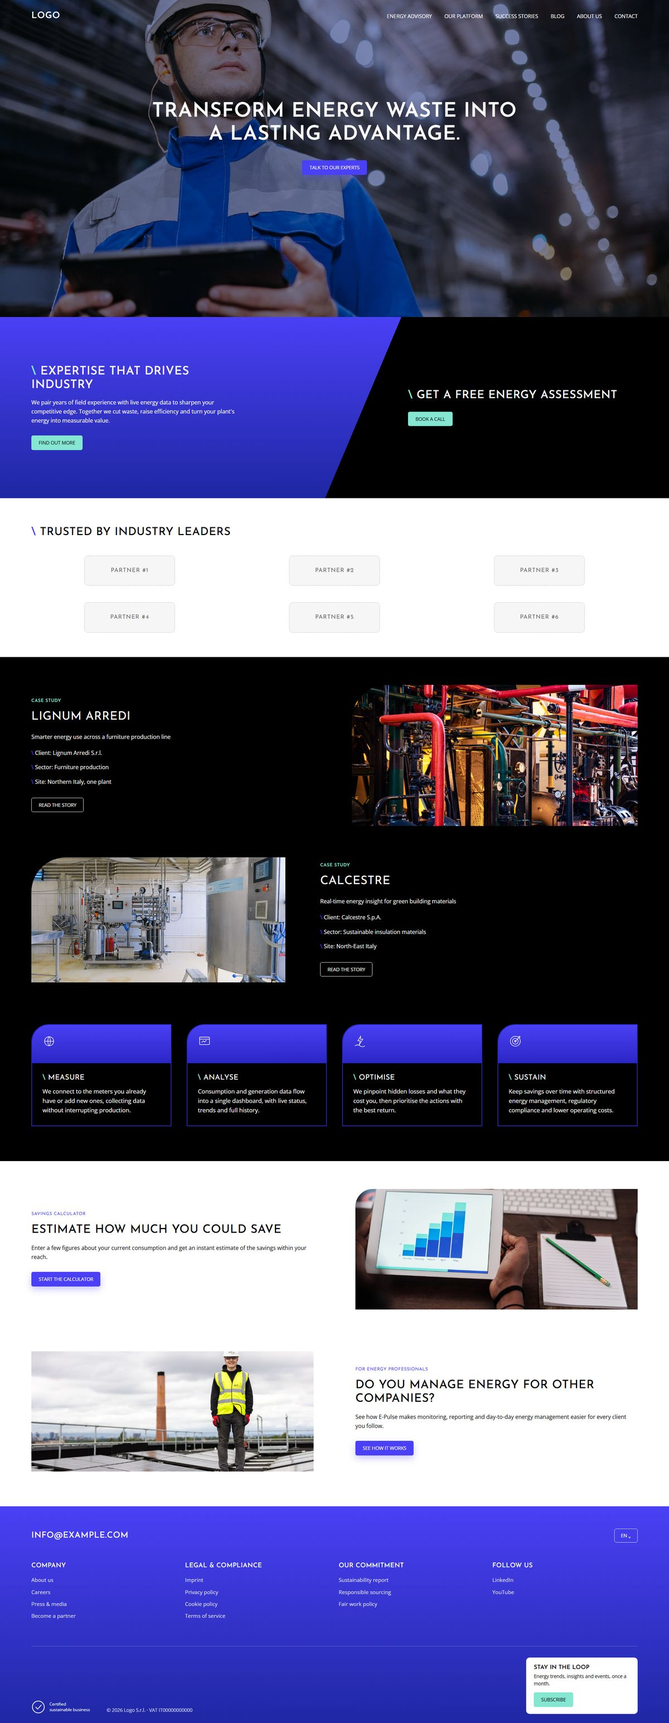
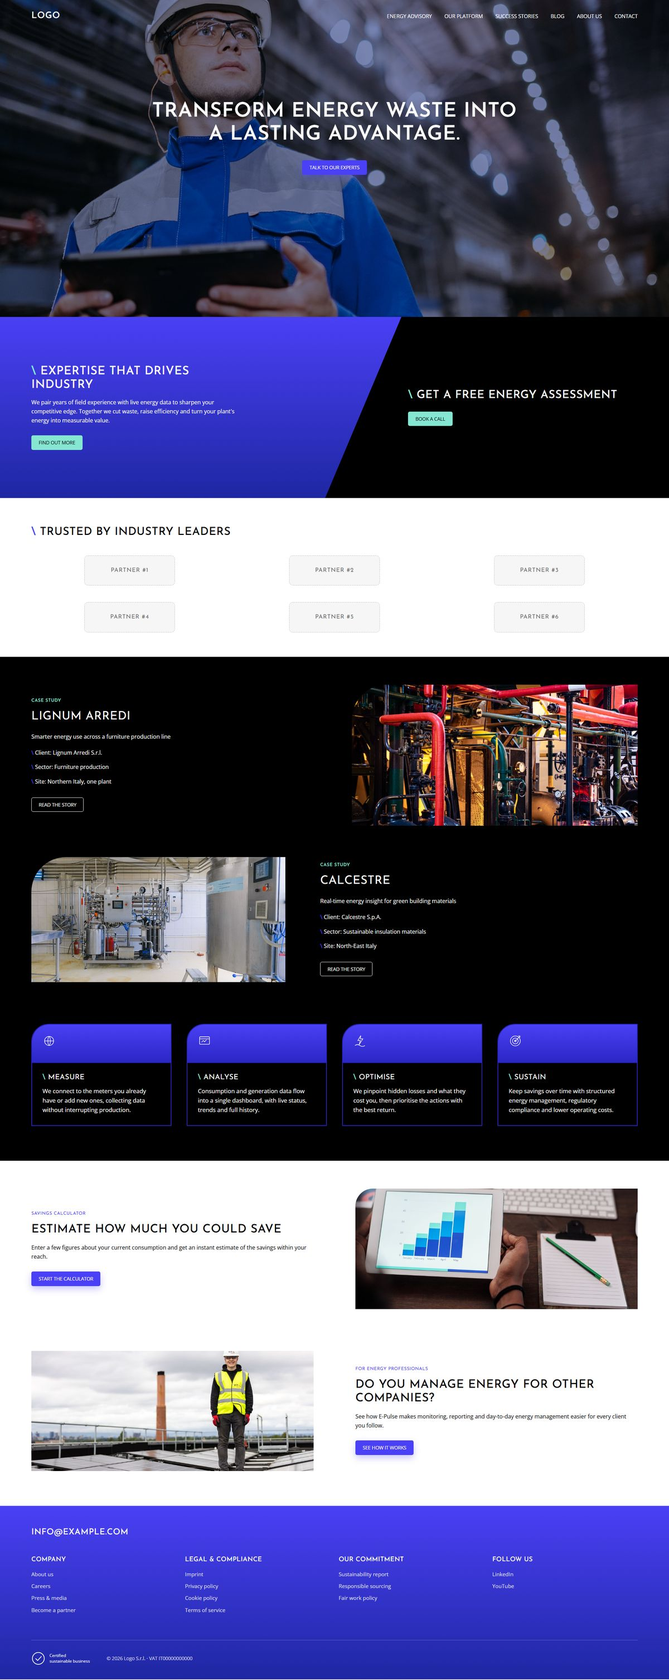
Rewrite wellness copy; trim energy footer

diff --git a/energia/assets/css/main.css b/energia/assets/css/main.css
@@ -1,1 +1,1 @@
-*,*::before,*::after{box-sizing:border-box}html{scroll-behavior:smooth}body{margin:0;background:#fff;color:#000;font:400 16px/1.6 "Open Sans",system-ui,sans-serif;-webkit-font-smoothing:antialiased}img{display:block;max-width:100%;height:auto}a{color:inherit}h1,h2,h3{margin:0;font-family:"Josefin Sans",sans-serif;font-weight:500;text-transform:uppercase;letter-spacing:.02em;line-height:1.15}.btn{display:inline-block;padding:13px 20px;border:1px solid rgba(0,0,0,0);border-radius:5px;font:400 .85rem/1 "Open Sans",system-ui,sans-serif;text-transform:uppercase;text-decoration:none;transition:filter .2s,background .2s,color .2s}.btn:hover{filter:brightness(1.1)}.btn--violet{background:#4a40f5;color:#fff;box-shadow:0 8px 20px rgba(74,64,245,.3)}.btn--teal{background:#85e6d1;color:#000}.btn--outline{border-color:#fff;color:#fff}.btn--outline:hover{background:#fff;color:#000}.slash::before{content:"\\ ";color:#85e6d1;font-weight:600}.slash--violet::before{color:#4a40f5}.kicker{display:block;margin-bottom:20px;font:600 .8rem/1 "Josefin Sans",sans-serif;letter-spacing:.04em;text-transform:uppercase;color:#85e6d1}.kicker--violet{color:#4a40f5;font-weight:400}.header{position:absolute;inset:0 0 auto;z-index:10;color:#fff}.header__inner{display:flex;align-items:center;justify-content:space-between;padding:28px clamp(20px,4.7vw,90px)}.header__toggle{display:flex;flex-direction:column;gap:5px;padding:10px;border:0;background:none;cursor:pointer}.header__toggle span{width:24px;height:2px;background:#fff}@media(min-width: 1100px){.header__toggle{display:none}}.header__nav{display:none;position:absolute;top:90px;left:0;right:0;flex-direction:column;padding:12px clamp(20px,4.7vw,90px) 20px;background:rgba(0,0,0,.92)}.header__nav.is-open{display:flex}@media(min-width: 1100px){.header__nav{display:flex;position:static;flex-direction:row;gap:36px;padding:0;background:none}}.header__nav a{padding:8px 0;font:400 .92rem "Open Sans",system-ui,sans-serif;text-transform:uppercase;text-decoration:none}.header__nav a:hover{color:#85e6d1}.logo{font:600 1.6rem/1 "Josefin Sans",sans-serif;letter-spacing:.04em;text-transform:uppercase;text-decoration:none}.hero{display:flex;flex-direction:column;align-items:center;justify-content:center;gap:40px;min-height:600px;padding:140px 20px 80px;text-align:center;color:#fff;background:linear-gradient(rgba(10, 30, 110, 0.55), rgba(10, 30, 110, 0.55)),url("../img/hero.jpg") center 30%/cover;background-blend-mode:multiply}@media(min-width: 1100px){.hero{min-height:910px;padding-bottom:260px}}.hero h1{font-size:clamp(2rem,4.2vw,3.6rem);font-weight:600;text-shadow:0 2px 20px rgba(0,0,0,.3)}.insight{display:grid;background:#000}@media(min-width: 1100px){.insight{grid-template-columns:1fr 1fr;min-height:520px}}.insight__panel{display:flex;flex-direction:column;justify-content:center;align-items:flex-start;padding:64px clamp(20px,4.7vw,90px);background:linear-gradient(180deg, #4a40f5, #1e27a2);color:#fff}@media(min-width: 1100px){.insight__panel{grid-column:1/3;grid-row:1;width:60%;padding-right:22%;clip-path:polygon(0 0, 100% 0, 81% 100%, 0 100%)}}.insight__panel h2{margin-bottom:18px;font-size:clamp(1.5rem,2.2vw,2.1rem)}.insight__panel p{max-width:610px;margin:0 0 30px;font-size:1rem}.insight__cta{display:flex;flex-direction:column;justify-content:center;align-items:flex-start;gap:28px;padding:56px clamp(20px,4.7vw,90px)}@media(min-width: 1100px){.insight__cta{grid-column:2;grid-row:1;padding:0 clamp(20px,4.7vw,90px) 0 22%}}.insight__cta{color:#fff}.insight__cta h2{font-size:clamp(1.4rem,2vw,2rem)}.clients{padding:80px clamp(20px,4.7vw,90px) 70px}.clients h2{margin-bottom:48px;font-size:clamp(1.4rem,2vw,2rem)}.clients__grid{display:grid;grid-template-columns:repeat(2, 1fr);gap:48px 24px;margin:0;padding:0;list-style:none}@media(min-width: 768px){.clients__grid{grid-template-columns:repeat(3, 1fr)}}.partner{display:grid;place-items:center;width:100%;max-width:260px;aspect-ratio:3/1;margin:0 auto;border:1.5px dashed #bdbdbd;border-radius:10px;background:#f6f6f6;font:400 1.05rem/1 "Josefin Sans",sans-serif;letter-spacing:.06em;text-transform:uppercase;color:#6b6b6b}.cases{display:grid;gap:90px;padding:80px clamp(20px,4.7vw,90px) 40px;background:#000;color:#fff}.case{display:grid;gap:32px;align-items:center}@media(min-width: 1100px){.case{grid-template-columns:1fr 1fr;gap:100px}}.case h3{margin-bottom:26px;font-size:2.1rem;font-weight:400}.case p{margin:0 0 20px}.case ul{margin:0 0 32px;padding:0;list-style:none}.case li{margin-bottom:16px}.case li::before{content:"\\ ";color:#4a40f5;font-weight:700}.case__img{width:100%;aspect-ratio:770/380;object-fit:cover;border-top-left-radius:100px}@media(min-width: 1100px){.case--reverse{grid-template-columns:.8fr 1fr}.case--reverse .case__text{order:2}}.case--reverse .kicker{margin-bottom:20px}@media(min-width: 1100px){.case--reverse .case__img{aspect-ratio:770/380}}.process{padding:80px clamp(20px,4.7vw,90px) 100px;background:#000;color:#fff}.process>h2{margin-bottom:18px;font-size:clamp(1.4rem,2vw,2rem)}.process>p{margin:0 0 30px}.process__grid{display:grid;gap:44px;margin-top:0}@media(min-width: 768px){.process__grid{grid-template-columns:repeat(2, 1fr)}}@media(min-width: 1100px){.process__grid{grid-template-columns:repeat(4, 1fr)}}.step{border:2px solid #2a26c4;border-top-left-radius:50px;overflow:hidden}.step__head{height:110px;padding:28px 30px;background:linear-gradient(180deg, #4a40f5, #2a26c4)}.step__head svg{width:38px;height:38px;fill:none;stroke:#fff;stroke-width:1.3}.step h3{margin:30px 30px 14px;font-size:1.3rem;font-weight:400}.step p{margin:0 30px 30px;font-size:1.05rem}.feature{display:grid;gap:36px;align-items:center;padding:80px clamp(20px,4.7vw,90px) 40px}@media(min-width: 1100px){.feature{grid-template-columns:1fr 1fr;gap:120px}}.feature h2{margin-bottom:20px;font-size:clamp(1.5rem,2.2vw,2.1rem)}.feature p{max-width:800px;margin:0 0 30px;font-size:1rem}.feature__img{width:100%;aspect-ratio:820/350;object-fit:cover;border-top-left-radius:50px}.feature--reverse{padding-bottom:100px}@media(min-width: 1100px){.feature--reverse .feature__text{order:2}}.feature--reverse .feature__img{border-radius:0}span.btn{pointer-events:none;cursor:default}.footer{padding:64px clamp(20px,4.7vw,90px) 40px;background:linear-gradient(180deg, #4a40f5, #1e27a2);color:#fff}.footer__top{display:flex;flex-wrap:wrap;align-items:center;justify-content:space-between;gap:20px;margin-bottom:56px}.footer__mail{font:500 clamp(1.1rem, 1.6vw, 1.5rem)/1 "Josefin Sans",sans-serif;text-transform:uppercase;letter-spacing:.03em}.footer__lang{padding:8px 18px;border:1px solid rgba(255,255,255,.8);border-radius:6px;font-size:.85rem}.footer__cols{display:grid;gap:40px 24px}@media(min-width: 768px){.footer__cols{grid-template-columns:repeat(2, 1fr)}}@media(min-width: 1100px){.footer__cols{grid-template-columns:repeat(4, 1fr)}}.footer__cols h2{margin-bottom:18px;font-size:1.15rem;font-weight:500}.footer__cols ul{margin:0;padding:0;list-style:none}.footer__cols li{margin-bottom:10px;font-size:.95rem;color:rgba(255,255,255,.85)}.footer__bottom{display:grid;gap:32px;align-items:end;margin-top:64px;padding-top:32px;border-top:1px solid rgba(255,255,255,.25)}@media(min-width: 1100px){.footer__bottom{grid-template-columns:auto 1fr auto;gap:48px}}.footer__bottom>p{margin:0;font-size:.85rem;color:rgba(255,255,255,.8)}.footer__badge{display:flex;align-items:center;gap:12px;font-size:.75rem;line-height:1.3}.footer__badge svg{width:40px;height:40px;fill:none;stroke:#fff;stroke-width:2}.footer__news{max-width:320px;padding:20px 22px;border-radius:10px;background:#fff;color:#000}.footer__news strong{display:block;font:600 1.05rem "Josefin Sans",sans-serif;text-transform:uppercase}.footer__news p{margin:6px 0 14px;font-size:.85rem}
+*,*::before,*::after{box-sizing:border-box}html{scroll-behavior:smooth}body{margin:0;background:#fff;color:#000;font:400 16px/1.6 "Open Sans",system-ui,sans-serif;-webkit-font-smoothing:antialiased}img{display:block;max-width:100%;height:auto}a{color:inherit}h1,h2,h3{margin:0;font-family:"Josefin Sans",sans-serif;font-weight:500;text-transform:uppercase;letter-spacing:.02em;line-height:1.15}.btn{display:inline-block;padding:13px 20px;border:1px solid rgba(0,0,0,0);border-radius:5px;font:400 .85rem/1 "Open Sans",system-ui,sans-serif;text-transform:uppercase;text-decoration:none;transition:filter .2s,background .2s,color .2s}.btn:hover{filter:brightness(1.1)}.btn--violet{background:#4a40f5;color:#fff;box-shadow:0 8px 20px rgba(74,64,245,.3)}.btn--teal{background:#85e6d1;color:#000}.btn--outline{border-color:#fff;color:#fff}.btn--outline:hover{background:#fff;color:#000}.slash::before{content:"\\ ";color:#85e6d1;font-weight:600}.slash--violet::before{color:#4a40f5}.kicker{display:block;margin-bottom:20px;font:600 .8rem/1 "Josefin Sans",sans-serif;letter-spacing:.04em;text-transform:uppercase;color:#85e6d1}.kicker--violet{color:#4a40f5;font-weight:400}.header{position:absolute;inset:0 0 auto;z-index:10;color:#fff}.header__inner{display:flex;align-items:center;justify-content:space-between;padding:28px clamp(20px,4.7vw,90px)}.header__toggle{display:flex;flex-direction:column;gap:5px;padding:10px;border:0;background:none;cursor:pointer}.header__toggle span{width:24px;height:2px;background:#fff}@media(min-width: 1100px){.header__toggle{display:none}}.header__nav{display:none;position:absolute;top:90px;left:0;right:0;flex-direction:column;padding:12px clamp(20px,4.7vw,90px) 20px;background:rgba(0,0,0,.92)}.header__nav.is-open{display:flex}@media(min-width: 1100px){.header__nav{display:flex;position:static;flex-direction:row;gap:36px;padding:0;background:none}}.header__nav a{padding:8px 0;font:400 .92rem "Open Sans",system-ui,sans-serif;text-transform:uppercase;text-decoration:none}.header__nav a:hover{color:#85e6d1}.logo{font:600 1.6rem/1 "Josefin Sans",sans-serif;letter-spacing:.04em;text-transform:uppercase;text-decoration:none}.hero{display:flex;flex-direction:column;align-items:center;justify-content:center;gap:40px;min-height:600px;padding:140px 20px 80px;text-align:center;color:#fff;background:linear-gradient(rgba(10, 30, 110, 0.55), rgba(10, 30, 110, 0.55)),url("../img/hero.jpg") center 30%/cover;background-blend-mode:multiply}@media(min-width: 1100px){.hero{min-height:910px;padding-bottom:260px}}.hero h1{font-size:clamp(2rem,4.2vw,3.6rem);font-weight:600;text-shadow:0 2px 20px rgba(0,0,0,.3)}.insight{display:grid;background:#000}@media(min-width: 1100px){.insight{grid-template-columns:1fr 1fr;min-height:520px}}.insight__panel{display:flex;flex-direction:column;justify-content:center;align-items:flex-start;padding:64px clamp(20px,4.7vw,90px);background:linear-gradient(180deg, #4a40f5, #1e27a2);color:#fff}@media(min-width: 1100px){.insight__panel{grid-column:1/3;grid-row:1;width:60%;padding-right:22%;clip-path:polygon(0 0, 100% 0, 81% 100%, 0 100%)}}.insight__panel h2{margin-bottom:18px;font-size:clamp(1.5rem,2.2vw,2.1rem)}.insight__panel p{max-width:610px;margin:0 0 30px;font-size:1rem}.insight__cta{display:flex;flex-direction:column;justify-content:center;align-items:flex-start;gap:28px;padding:56px clamp(20px,4.7vw,90px)}@media(min-width: 1100px){.insight__cta{grid-column:2;grid-row:1;padding:0 clamp(20px,4.7vw,90px) 0 22%}}.insight__cta{color:#fff}.insight__cta h2{font-size:clamp(1.4rem,2vw,2rem)}.clients{padding:80px clamp(20px,4.7vw,90px) 70px}.clients h2{margin-bottom:48px;font-size:clamp(1.4rem,2vw,2rem)}.clients__grid{display:grid;grid-template-columns:repeat(2, 1fr);gap:48px 24px;margin:0;padding:0;list-style:none}@media(min-width: 768px){.clients__grid{grid-template-columns:repeat(3, 1fr)}}.partner{display:grid;place-items:center;width:100%;max-width:260px;aspect-ratio:3/1;margin:0 auto;border:1.5px dashed #bdbdbd;border-radius:10px;background:#f6f6f6;font:400 1.05rem/1 "Josefin Sans",sans-serif;letter-spacing:.06em;text-transform:uppercase;color:#6b6b6b}.cases{display:grid;gap:90px;padding:80px clamp(20px,4.7vw,90px) 40px;background:#000;color:#fff}.case{display:grid;gap:32px;align-items:center}@media(min-width: 1100px){.case{grid-template-columns:1fr 1fr;gap:100px}}.case h3{margin-bottom:26px;font-size:2.1rem;font-weight:400}.case p{margin:0 0 20px}.case ul{margin:0 0 32px;padding:0;list-style:none}.case li{margin-bottom:16px}.case li::before{content:"\\ ";color:#4a40f5;font-weight:700}.case__img{width:100%;aspect-ratio:770/380;object-fit:cover;border-top-left-radius:100px}@media(min-width: 1100px){.case--reverse{grid-template-columns:.8fr 1fr}.case--reverse .case__text{order:2}}.case--reverse .kicker{margin-bottom:20px}@media(min-width: 1100px){.case--reverse .case__img{aspect-ratio:770/380}}.process{padding:80px clamp(20px,4.7vw,90px) 100px;background:#000;color:#fff}.process>h2{margin-bottom:18px;font-size:clamp(1.4rem,2vw,2rem)}.process>p{margin:0 0 30px}.process__grid{display:grid;gap:44px;margin-top:0}@media(min-width: 768px){.process__grid{grid-template-columns:repeat(2, 1fr)}}@media(min-width: 1100px){.process__grid{grid-template-columns:repeat(4, 1fr)}}.step{border:2px solid #2a26c4;border-top-left-radius:50px;overflow:hidden}.step__head{height:110px;padding:28px 30px;background:linear-gradient(180deg, #4a40f5, #2a26c4)}.step__head svg{width:38px;height:38px;fill:none;stroke:#fff;stroke-width:1.3}.step h3{margin:30px 30px 14px;font-size:1.3rem;font-weight:400}.step p{margin:0 30px 30px;font-size:1.05rem}.feature{display:grid;gap:36px;align-items:center;padding:80px clamp(20px,4.7vw,90px) 40px}@media(min-width: 1100px){.feature{grid-template-columns:1fr 1fr;gap:120px}}.feature h2{margin-bottom:20px;font-size:clamp(1.5rem,2.2vw,2.1rem)}.feature p{max-width:800px;margin:0 0 30px;font-size:1rem}.feature__img{width:100%;aspect-ratio:820/350;object-fit:cover;border-top-left-radius:50px}.feature--reverse{padding-bottom:100px}@media(min-width: 1100px){.feature--reverse .feature__text{order:2}}.feature--reverse .feature__img{border-radius:0}span.btn{pointer-events:none;cursor:default}.footer{padding:64px clamp(20px,4.7vw,90px) 40px;background:linear-gradient(180deg, #4a40f5, #1e27a2);color:#fff}.footer__top{display:flex;flex-wrap:wrap;align-items:center;justify-content:space-between;gap:20px;margin-bottom:56px}.footer__mail{font:500 clamp(1.1rem, 1.6vw, 1.5rem)/1 "Josefin Sans",sans-serif;text-transform:uppercase;letter-spacing:.03em}.footer__cols{display:grid;gap:40px 24px}@media(min-width: 768px){.footer__cols{grid-template-columns:repeat(2, 1fr)}}@media(min-width: 1100px){.footer__cols{grid-template-columns:repeat(4, 1fr)}}.footer__cols h2{margin-bottom:18px;font-size:1.15rem;font-weight:500}.footer__cols ul{margin:0;padding:0;list-style:none}.footer__cols li{margin-bottom:10px;font-size:.95rem;color:rgba(255,255,255,.85)}.footer__bottom{display:grid;gap:32px;align-items:center;margin-top:64px;padding-top:32px;border-top:1px solid rgba(255,255,255,.25)}@media(min-width: 1100px){.footer__bottom{grid-template-columns:auto 1fr;gap:48px}}.footer__bottom>p{margin:0;font-size:.85rem;color:rgba(255,255,255,.8)}.footer__badge{display:flex;align-items:center;gap:12px;font-size:.75rem;line-height:1.3}.footer__badge svg{width:40px;height:40px;fill:none;stroke:#fff;stroke-width:2}

diff --git a/benessere/index.html b/benessere/index.html
@@ -31,8 +31,8 @@
   <main>
     <section class="hero" id="top">
       <div class="container">
-        <h1>Vi diamo il benvenuto al Centro Alba</h1>
-        <p>Uno spazio nato per prendersi cura della persona e del suo benessere, in ogni fase della vita.</p>
+        <h1>Benvenuti al Centro Alba</h1>
+        <p>Un luogo accogliente dove ritrovare ascolto, equilibrio e fiducia, a ogni età.</p>
       </div>
     </section>
 
@@ -40,8 +40,8 @@
       <div class="container split">
         <div>
           <h2 class="title">Il centro Alba</h2>
-          <p>Alba è un centro multidisciplinare dedicato al supporto psicologico, educativo e alla promozione del benessere psicofisico. Con percorsi personalizzati per bambini, adolescenti e adulti, il nostro team di professionisti offre risposte concrete e integrate per affrontare le difficoltà e ritrovare equilibrio nella vita di tutti i giorni.</p>
-          <span class="btn">Scopri il centro</span>
+          <p>Al Centro Alba psicologi, educatori e operatori del benessere lavorano fianco a fianco. Accompagniamo bambini, ragazzi e adulti con percorsi costruiti sulla singola persona, per affrontare i momenti difficili e coltivare serenità nella vita quotidiana.</p>
+          <span class="btn">Conosci il centro</span>
         </div>
         <img class="split__img" src="assets/img/centro.jpg" alt="Bambini che dipingono con gli acquerelli" width="1200" height="800" loading="lazy">
       </div>
@@ -49,24 +49,24 @@
 
     <section class="section section--tight" id="servizi">
       <div class="container">
-        <h2 class="title">I nostri servizi</h2>
+        <h2 class="title">Le nostre aree</h2>
         <div class="services">
           <article class="service">
             <svg viewBox="0 0 48 48" aria-hidden="true"><path d="M30 42v-7h4a3 3 0 003-3v-5l4-2-4-6c0-8-6-14-14-14S9 11 9 19c0 5 2 9 6 12v11"/><path d="M23 29s-7-4-7-9a3.5 3.5 0 017-1 3.5 3.5 0 017 1c0 5-7 9-7 9z" fill="currentColor"/></svg>
             <h3>Spazio<br>Psicologico</h3>
-            <p>Uno spazio di ascolto sicuro e accogliente per affrontare difficoltà emotive e relazionali, promuovendo salute e benessere psicologico.</p>
+            <p>Colloqui individuali, di coppia e familiari per elaborare emozioni, superare momenti di crisi e prendersi cura della propria salute mentale.</p>
             <span class="btn">Approfondisci</span>
           </article>
           <article class="service">
             <svg viewBox="0 0 48 48" aria-hidden="true"><path d="M6 36c8 6 28 6 36 0"/><path d="M12 33l4-10h16l4 10"/><path d="M16 23c-2-4 0-9 5-10l3-5 2 4c5 0 8 4 7 8l-1 3"/><circle cx="27" cy="15" r="1" fill="currentColor"/></svg>
             <h3>Spazio<br>Pedagogico</h3>
-            <p>Favorisce l'apprendimento, la creatività e lo sviluppo di competenze sociali ed emotive attraverso attività strutturate e laboratori.</p>
+            <p>Laboratori e percorsi educativi che sostengono l'apprendimento, la creatività e le competenze relazionali di bambini e ragazzi.</p>
             <span class="btn">Approfondisci</span>
           </article>
           <article class="service">
             <svg viewBox="0 0 48 48" aria-hidden="true"><path d="M24 36c-4-4-6-9-6-14 0-4 2-8 6-11 4 3 6 7 6 11 0 5-2 10-6 14z"/><path d="M24 36c-6-1-12-5-14-12 4-1 8 0 10 2"/><path d="M24 36c6-1 12-5 14-12-4-1-8 0-10 2"/><path d="M24 36c-8 1-15-2-19-7M24 36c8 1 15-2 19-7"/></svg>
             <h3>Spazio<br>Benessere</h3>
-            <p>Percorsi per ritrovare equilibrio tra corpo e mente: rilassamento, energia positiva e consapevolezza di sé per uno stile di vita sano.</p>
+            <p>Yoga, mindfulness e tecniche di rilassamento per ritrovare energia, ridurre lo stress e ascoltare meglio corpo e mente.</p>
             <span class="btn">Approfondisci</span>
           </article>
         </div>
@@ -77,23 +77,23 @@
       <div class="container split split--reverse">
         <img class="split__img" src="assets/img/affidati.webp" alt="Genitori e bambina durante un colloquio" width="1147" height="713" loading="lazy">
         <div>
-          <h2 class="title">Affidati a noi</h2>
-          <p>Il nostro team è a tua disposizione per consigliarti i servizi e le discipline più adatti alla tua persona. Raccontaci di te: ti guideremo verso il percorso giusto.</p>
-          <span class="btn">Contattaci</span>
+          <h2 class="title">Non sai da dove iniziare?</h2>
+          <p>Fissa un primo colloquio conoscitivo: insieme capiremo di cosa hai bisogno e quale percorso può essere più adatto a te o alla tua famiglia.</p>
+          <span class="btn">Prenota un colloquio</span>
         </div>
       </div>
     </section>
 
     <section class="section" id="eta">
       <div class="container">
-        <h2 class="title">A chi ci rivolgiamo</h2>
-        <p class="lead">Alba accoglie bambini, adolescenti, adulti e famiglie, con percorsi pensati per ogni fase della vita. Grazie a un approccio multidisciplinare, il centro propone servizi diversi ma integrati, per rispondere in modo mirato alle esigenze di ciascuno.</p>
+        <h2 class="title">Per ogni fase della vita</h2>
+        <p class="lead">Dall'infanzia all'età adulta, ogni fase porta con sé domande e sfide diverse. Per questo il centro offre percorsi dedicati, che possono intrecciarsi tra loro quando serve uno sguardo più ampio.</p>
         <div class="ages">
           <article class="age">
             <img src="assets/img/infanzia.webp" alt="Bambini che giocano insieme" width="1920" height="784" loading="lazy">
             <div class="age__body">
               <h3>Infanzia</h3>
-              <p>Per l'infanzia, Alba propone percorsi personalizzati che sostengono la crescita, l'apprendimento e il benessere emotivo dei più piccoli, in stretta collaborazione con le famiglie.</p>
+              <p>Gioco, ascolto e attività educative per sostenere lo sviluppo emotivo e relazionale dei più piccoli, con il coinvolgimento costante dei genitori.</p>
             </div>
             <span class="age__link">Scopri di più ↗</span>
           </article>
@@ -101,7 +101,7 @@
             <img src="assets/img/adolescenti.webp" alt="Ragazze sorridenti" width="1920" height="630" loading="lazy">
             <div class="age__body">
               <h3>Adolescenti</h3>
-              <p>Per l'adolescenza, percorsi di ascolto, sostegno e crescita pensati per accompagnare ragazze e ragazzi nelle sfide di questa fase della vita.</p>
+              <p>Uno spazio riservato in cui ragazze e ragazzi possono parlare liberamente di scuola, relazioni, identità e futuro.</p>
             </div>
             <span class="age__link">Scopri di più ↗</span>
           </article>
@@ -109,7 +109,7 @@
             <img src="assets/img/adulti.webp" alt="Adulti durante una lezione di yoga" width="1920" height="1091" loading="lazy">
             <div class="age__body">
               <h3>Adulti</h3>
-              <p>Per gli adulti, percorsi di sostegno psicologico, genitorialità e benessere psicofisico, costruiti su misura per ogni fase della vita.</p>
+              <p>Supporto psicologico, sostegno alla genitorialità e attività per il benessere psicofisico, con tempi e modalità su misura.</p>
             </div>
             <span class="age__link">Scopri di più ↗</span>
           </article>
@@ -120,10 +120,10 @@
     <section class="section" id="team">
       <div class="container split">
         <div>
-          <h2 class="title">Il team di Alba</h2>
-          <p>Il nostro team è composto da professioniste e professionisti che lavorano in ottica olistica, ognuno con le proprie competenze, uniti dal desiderio di lavorare insieme per il benessere della persona.</p>
-          <p>L'équipe si confronta sulle esigenze di ciascuno, valuta la situazione nel suo insieme e propone percorsi personalizzati che possono coinvolgere più servizi e figure professionali.</p>
-          <span class="btn">Scopri il team</span>
+          <h2 class="title">Chi siamo</h2>
+          <p>Siamo un gruppo di professionisti con formazioni diverse (psicologia, pedagogia, discipline del benessere) che condividono lo stesso metodo: mettere la persona al centro.</p>
+          <p>Ogni situazione viene discussa in équipe, così da proporre il percorso più efficace e, quando utile, coinvolgere più figure professionali in modo coordinato.</p>
+          <span class="btn">Incontra l'équipe</span>
         </div>
         <img class="split__img" src="assets/img/team.webp" alt="Mani unite in segno di squadra" width="1024" height="680" loading="lazy">
       </div>
@@ -139,7 +139,7 @@
         <p><a href="#">Privacy Policy</a><br><a href="#">Cookie Policy</a></p>
       </div>
       <div>
-        <h2 class="title">I nostri contatti</h2>
+        <h2 class="title">Contatti</h2>
         <ul class="footer__list">
           <li><span aria-hidden="true">✆</span> WhatsApp: 000 000 0000</li>
           <li><span aria-hidden="true">✉</span> info@example.com</li>
@@ -147,7 +147,7 @@
         </ul>
       </div>
       <div>
-        <h2 class="title">Seguici sui social</h2>
+        <h2 class="title">Social</h2>
         <ul class="footer__list">
           <li><span aria-hidden="true">◎</span> Instagram</li>
           <li><span aria-hidden="true">ⓕ</span> Facebook</li>
@@ -156,7 +156,7 @@
       </div>
     </div>
     <div class="container footer__note">
-      <p>Questo sito non utilizza alcuna tecnica di profilazione degli utenti, ma solo cookie tecnici necessari al corretto funzionamento del sito stesso.<br>Per maggiori informazioni consulta l'informativa completa Privacy Policy e Cookie Policy riportate qui sopra.</p>
+      <p>Questo sito usa esclusivamente cookie tecnici, necessari al suo funzionamento, e non effettua alcuna profilazione degli utenti.<br>I dettagli sono disponibili nella Privacy Policy e nella Cookie Policy.</p>
     </div>
     <a class="whatsapp" href="#" aria-label="Scrivici su WhatsApp"><svg viewBox="0 0 24 24" aria-hidden="true"><path d="M12 2a10 10 0 00-8.6 15.1L2 22l5-1.3A10 10 0 1012 2zm5.3 14.2c-.2.6-1.3 1.2-1.8 1.2-.5.1-1 .2-3.3-.7-2.8-1.1-4.5-3.9-4.7-4.1-.1-.2-1.1-1.5-1.1-2.8s.7-2 1-2.3c.2-.3.5-.3.7-.3h.5c.2 0 .4 0 .6.5l.8 2c.1.2.1.4 0 .5l-.3.5-.4.4c-.1.1-.3.3-.1.6.2.3.8 1.3 1.7 2.1 1.2 1 2.1 1.3 2.4 1.5.3.1.5.1.6-.1l.9-1c.2-.3.4-.2.6-.1l1.9.9c.3.1.5.2.5.3.1.1.1.6-.1 1.2z" fill="#fff"/></svg></a>
   </footer>

diff --git a/energia/assets/scss/main.scss b/energia/assets/scss/main.scss
@@ -310,12 +310,6 @@ span.btn { pointer-events: none; cursor: default; }
 
   &__mail { font: 500 clamp(1.1rem, 1.6vw, 1.5rem)/1 $head; text-transform: uppercase; letter-spacing: .03em; }
 
-  &__lang {
-    padding: 8px 18px;
-    border: 1px solid rgba(255, 255, 255, .8);
-    border-radius: 6px;
-    font-size: .85rem;
-  }
 
   &__cols {
     display: grid;
@@ -334,12 +328,12 @@ span.btn { pointer-events: none; cursor: default; }
   &__bottom {
     display: grid;
     gap: 32px;
-    align-items: end;
+    align-items: center;
     margin-top: 64px;
     padding-top: 32px;
     border-top: 1px solid rgba(255, 255, 255, .25);
 
-    @include lg { grid-template-columns: auto 1fr auto; gap: 48px; }
+    @include lg { grid-template-columns: auto 1fr; gap: 48px; }
 
     > p { margin: 0; font-size: .85rem; color: rgba(255, 255, 255, .8); }
   }
@@ -354,14 +348,4 @@ span.btn { pointer-events: none; cursor: default; }
     svg { width: 40px; height: 40px; fill: none; stroke: $white; stroke-width: 2; }
   }
 
-  &__news {
-    max-width: 320px;
-    padding: 20px 22px;
-    border-radius: 10px;
-    background: $white;
-    color: $black;
-
-    strong { display: block; font: 600 1.05rem $head; text-transform: uppercase; }
-    p { margin: 6px 0 14px; font-size: .85rem; }
-  }
 }

diff --git a/index.html b/index.html
@@ -72,7 +72,7 @@
 
       <li class="project">
         <button class="project__preview" type="button" data-full="assets/img/energia.jpg" data-site="energia/" aria-label="Apri il sito: Efficienza energetica">
-          <img src="assets/img/energia.jpg" alt="Anteprima homepage di una società di efficienza energetica" loading="lazy" width="1200" height="3091">
+          <img src="assets/img/energia.jpg" alt="Anteprima homepage di una società di efficienza energetica" loading="lazy" width="1200" height="3015">
         </button>
         <div class="project__info">
           <span class="project__index">04</span>
@@ -86,7 +86,7 @@
 
       <li class="project">
         <button class="project__preview" type="button" data-full="assets/img/psicologia.jpg" data-site="benessere/" aria-label="Apri il sito: Centro di psicologia e benessere">
-          <img src="assets/img/psicologia.jpg" alt="Anteprima homepage di un centro di psicologia e benessere" loading="lazy" width="1200" height="2512">
+          <img src="assets/img/psicologia.jpg" alt="Anteprima homepage di un centro di psicologia e benessere" loading="lazy" width="1200" height="2479">
         </button>
         <div class="project__info">
           <span class="project__index">05</span>

diff --git a/energia/index.html b/energia/index.html
@@ -137,7 +137,6 @@
   <footer class="footer">
     <div class="footer__top">
       <span class="footer__mail">info@example.com</span>
-      <span class="footer__lang">EN <span aria-hidden="true">&#8964;</span></span>
     </div>
     <div class="footer__cols">
       <div>
@@ -163,11 +162,6 @@
         <span>Certified<br>sustainable business</span>
       </div>
       <p>&copy; 2026 Logo S.r.l. &middot; VAT IT00000000000</p>
-      <div class="footer__news">
-        <strong>Stay in the loop</strong>
-        <p>Energy trends, insights and events, once a month.</p>
-        <span class="btn btn--teal">Subscribe</span>
-      </div>
     </div>
   </footer>
 
